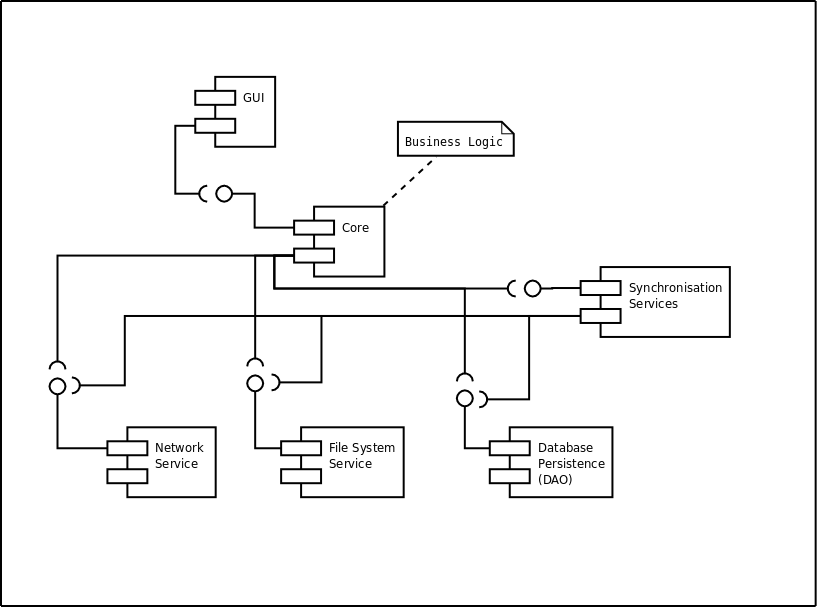
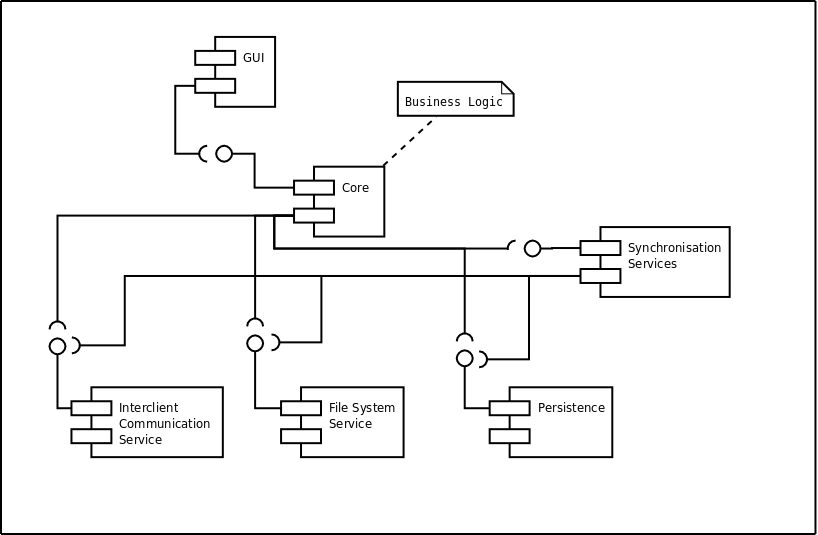
component diagram (needs further discussion): Fixed names according to documentation text; wbs: Fixed table, a little formatting.
git-svn-id: svn://svn.jakeapp.com/trunk@87 cfed719c-3465-4289-a5de-482d64f03f8e

diff --git a/documentation/projektauftrag/07_wbs.tex b/documentation/projektauftrag/07_wbs.tex
@@ -2,11 +2,9 @@
 
 \section{Arbeitsprogramm, Work Breakdown Structure}
 
-Beginn, Ende bezeichnen die Arbeitswochen. \\
-
-\begin{tabular}{ | l | p{8cm} | l |l|l|}
+\begin{tabular}{ | l | p{8cm} | p{2cm}|p{2cm}|p{2cm}|}
 \hline
-\textbf{Nr.} & \textbf{Phase / Outcome} & \textbf{Beginn}& \textbf{Ende}& \textbf{Aufwand / Std.} \\
+\textbf{Nr.} & \textbf{Phase / Outcome} & \textbf{Beginn / Woche}& \textbf{Ende / Woche}& \textbf{Aufwand / Std.} \\
 \hline
 1 & \textbf{Projektstart}                      & \textbf{1} & \textbf{2} & \textbf{68} \\
 \hline
@@ -74,6 +72,12 @@ Beginn, Ende bezeichnen die Arbeitswochen. \\
 \hline
 6.3 &Testreport                        &9 &9 & 5 \\
 \hline
+\end{tabular}
+
+\begin{tabular}{ | l | p{8cm} | p{2cm}|p{2cm}|p{2cm}|}
+\hline
+\textbf{Nr.} & \textbf{Phase / Outcome} & \textbf{Beginn}& \textbf{Ende}& \textbf{Aufwand / Std.} \\
+\hline
 7 &\textbf{Dokumentation}                   &\textbf{1} &\textbf{10} &\textbf{147}  \\
 \hline
 7.1 &Dokumentations-Guidelines         &1 &3 & 5 \\
@@ -87,13 +91,6 @@ Beginn, Ende bezeichnen die Arbeitswochen. \\
 7.5 &User Manual                       &8 &9 & 20 \\
 \hline
 7.6 &Artefakte                         &1 &10 & 40 \\
-\hline
-\end{tabular}
-
-\begin{tabular}{ | l | p{8cm} | l |l|l|}
-\hline
-\textbf{Nr.} & \textbf{Phase / Outcome} & \textbf{Beginn}& \textbf{Ende}& \textbf{Aufwand / Std.} \\
-\hline
 8 &\textbf{Dokumente der Projektplanung}     &\textbf{1} &\textbf{11} &\textbf{105}  \\
 \hline
 8.1 & Statusberichte                &3 &11 & 20 \\
@@ -116,7 +113,7 @@ Beginn, Ende bezeichnen die Arbeitswochen. \\
 \hline
 8.11 &Workload Erhebung                &2 &11 & 10 \\
 \hline
-& \textbf{Gesamt} &\textbf{900} \\
+& \textbf{Gesamt} & & & \textbf{900} \\
 \hline
 \hline
 \end{tabular}
